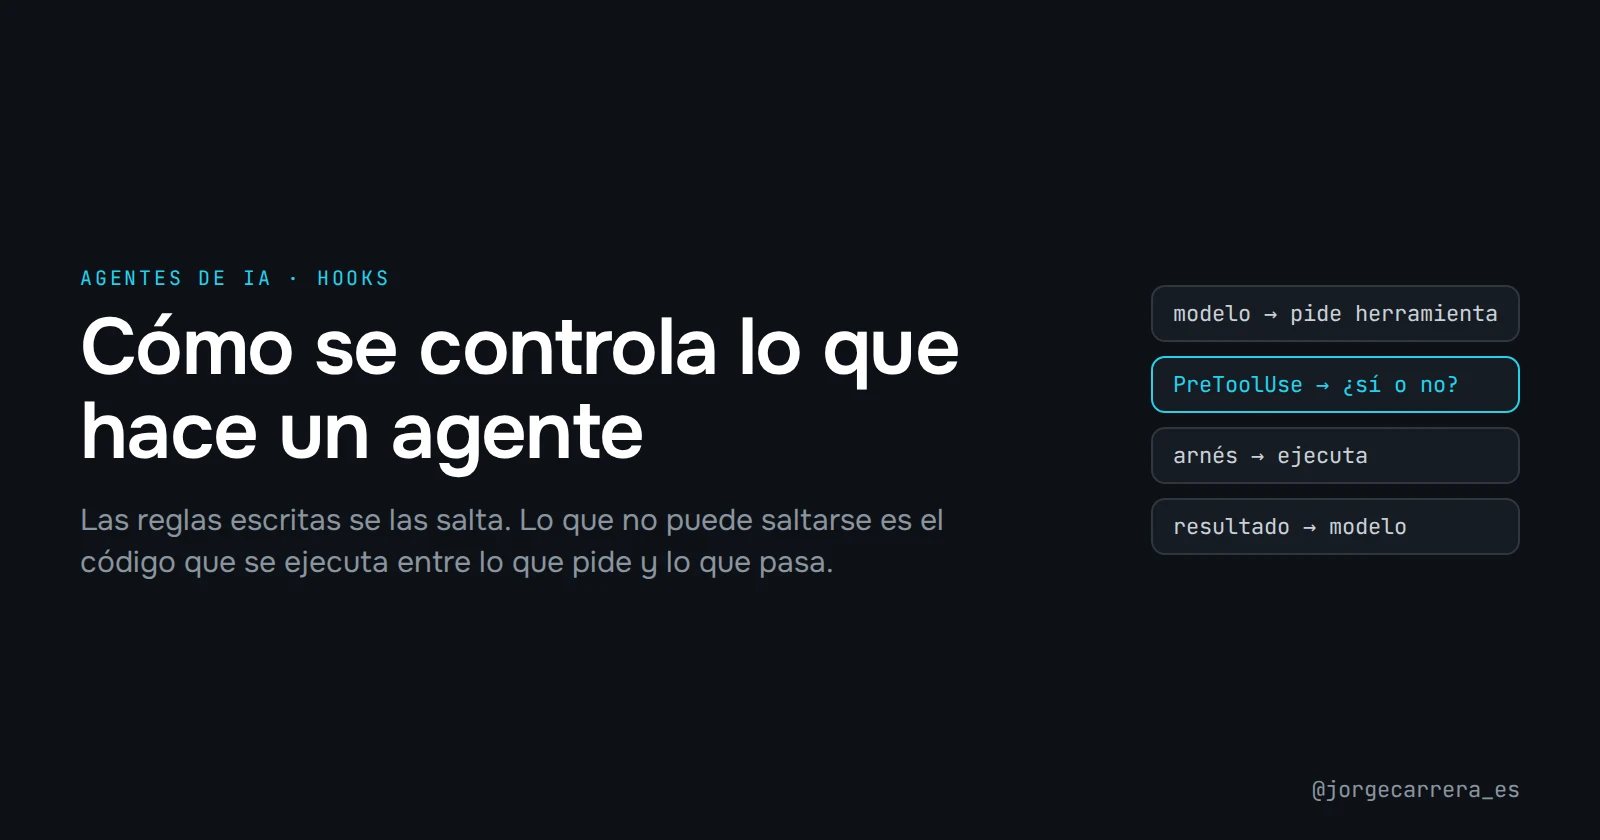
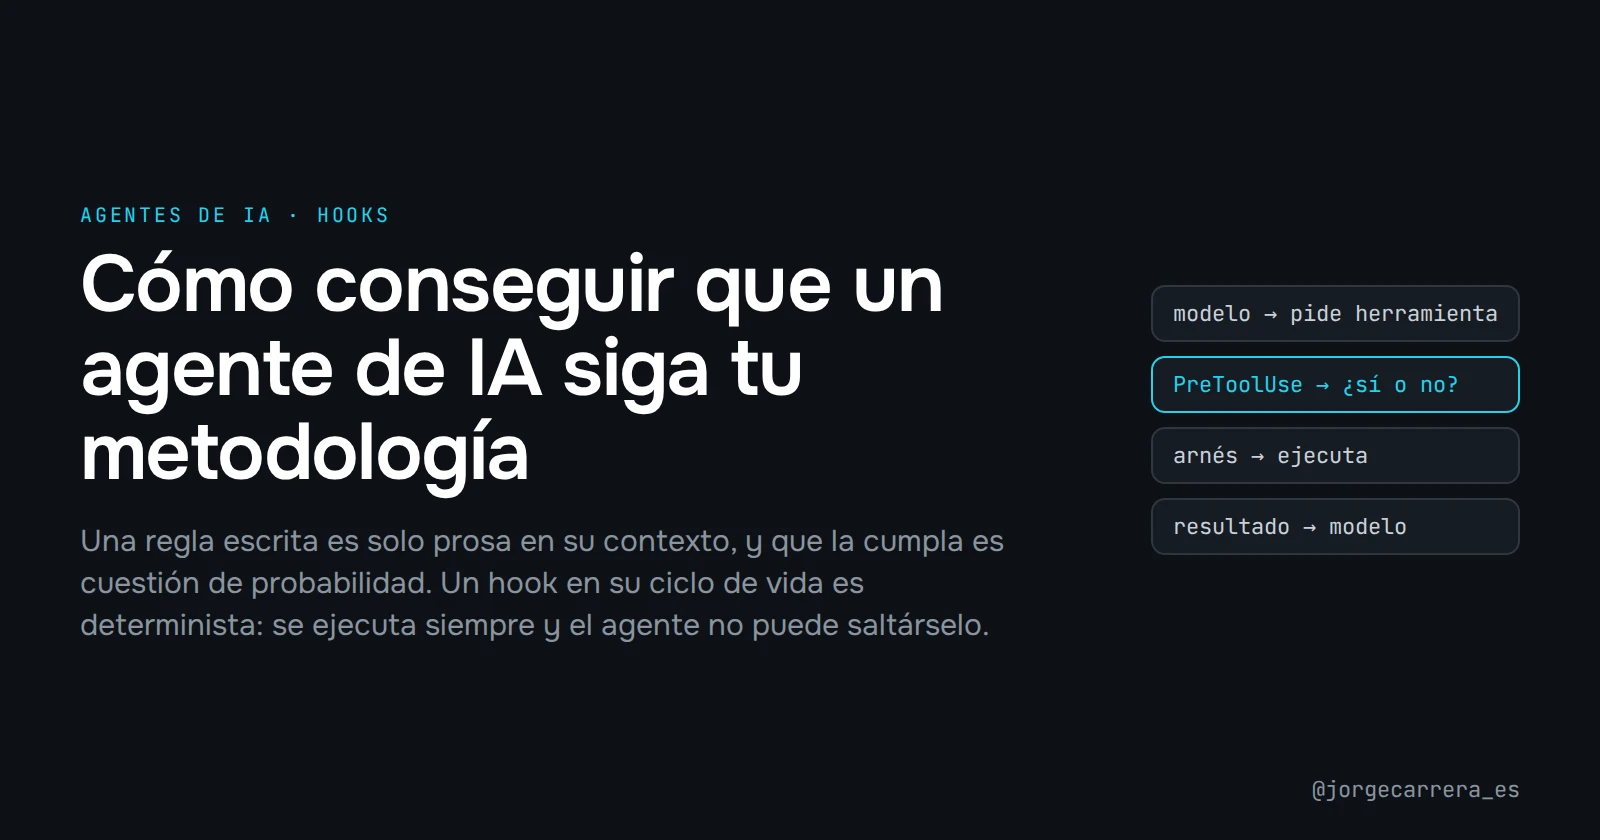
feat(blog): serve vertical diagrams on mobile and retitle the agents article
Wide diagrams were unreadable at 390px. An image with a sibling -movil
file is now rendered as a picture with that variant under 640px. The
title matches the teaser already posted on X.

Changed region(s): [[0.0312, 0.2476, 0.625, 0.7738]]

diff --git a/src/lib/blog/posts.ts b/src/lib/blog/posts.ts
@@ -1,4 +1,4 @@
-import { readdirSync, readFileSync } from "node:fs";
+import { existsSync, readdirSync, readFileSync } from "node:fs";
 import { join } from "node:path";
 import { Marked } from "marked";
 import type { Locale } from "@/i18n/config";
@@ -111,6 +111,15 @@ function expandCallouts(body: string) {
   );
 }
 
+// Un diagrama ancho no se lee en el móvil: si junto a la imagen hay una
+// versión «-movil», esa es la que se sirve en pantallas estrechas.
+function mobileVariant(href: string) {
+  if (!href.startsWith("/")) return null;
+  const candidate = href.replace(/(\.\w+)$/, "-movil$1");
+  if (candidate === href) return null;
+  return existsSync(join(process.cwd(), "public", candidate)) ? candidate : null;
+}
+
 function render(body: string) {
   const toc: TocEntry[] = [];
   const marked = new Marked({ gfm: true });
@@ -130,7 +139,12 @@ function render(body: string) {
         const caption = title
           ? `<figcaption>${escapeHtml(title)}</figcaption>`
           : "";
-        return `<figure class="post-figure"><a href="${escapeHtml(href)}" target="_blank" rel="noopener"><img src="${escapeHtml(href)}" alt="${escapeHtml(text)}" loading="lazy" decoding="async" /></a>${caption}</figure>`;
+        const img = `<img src="${escapeHtml(href)}" alt="${escapeHtml(text)}" loading="lazy" decoding="async" />`;
+        const mobile = mobileVariant(href);
+        const media = mobile
+          ? `<picture><source media="(max-width: 639px)" srcset="${escapeHtml(mobile)}" />${img}</picture>`
+          : img;
+        return `<figure class="post-figure"><a href="${escapeHtml(href)}" target="_blank" rel="noopener">${media}</a>${caption}</figure>`;
       },
       paragraph({ tokens }) {
         const only = tokens.length === 1 && tokens[0].type === "image";

diff --git a/src/content/blog/es/controlar-agentes.md b/src/content/blog/es/controlar-agentes.md
@@ -1,9 +1,9 @@
 ---
-title: "Cómo se controla lo que hace un agente de IA"
-description: "Por qué un agente se salta las reglas que le escribes, qué pasa por dentro entre lo que pide y lo que ejecuta, y cómo uso los hooks para que cumpla las que importan."
+title: "Cómo conseguir que un agente de IA siga tu metodología"
+description: "Por qué un agente se salta las reglas que le escribes, qué pasa por dentro entre lo que pide y lo que ejecuta, y cómo bloquearlo cuando se salta el protocolo."
 date: 2026-09-28
 cover: /blog/agentes/portada.webp
-coverAlt: "Portada: el bucle de un agente, con el paso PreToolUse resaltado entre la petición del modelo y la ejecución"
+coverAlt: "Portada con el título «Cómo conseguir que un agente de IA siga tu metodología» y el bucle del agente, con el paso PreToolUse resaltado entre la petición del modelo y la ejecución"
 preview: /blog/agentes/guardia.webp
 previewAlt: "Terminal: un hook se niega a ejecutar un pkill y un gh pr create que había pedido el agente"
 tags:
